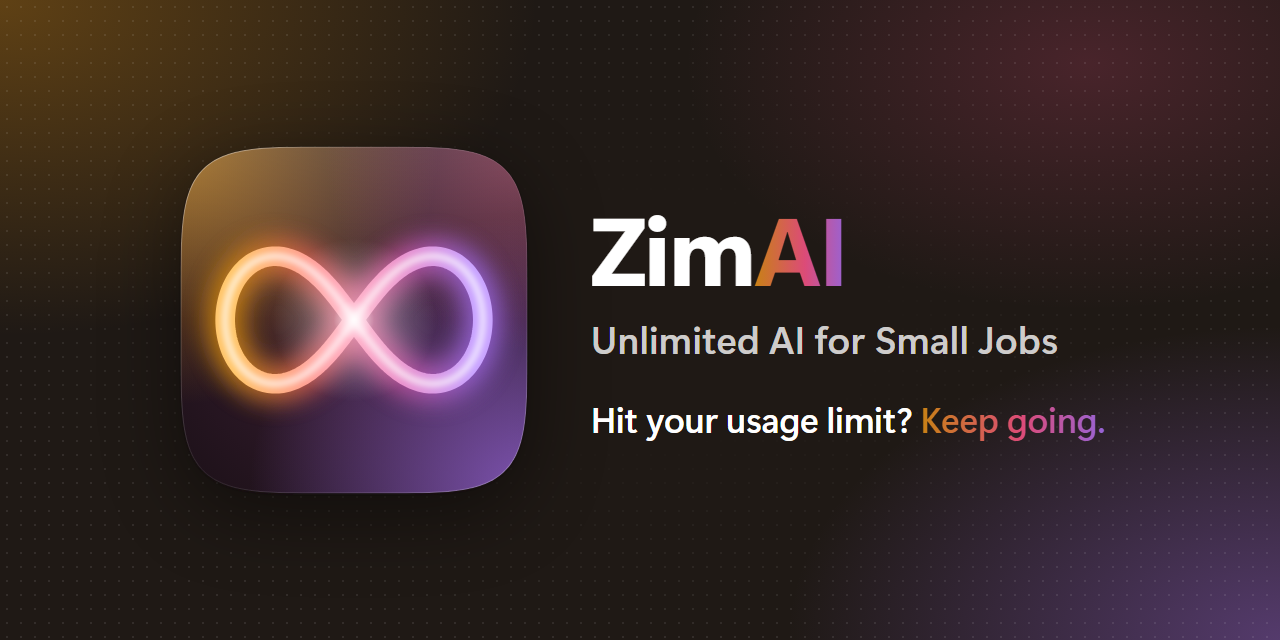
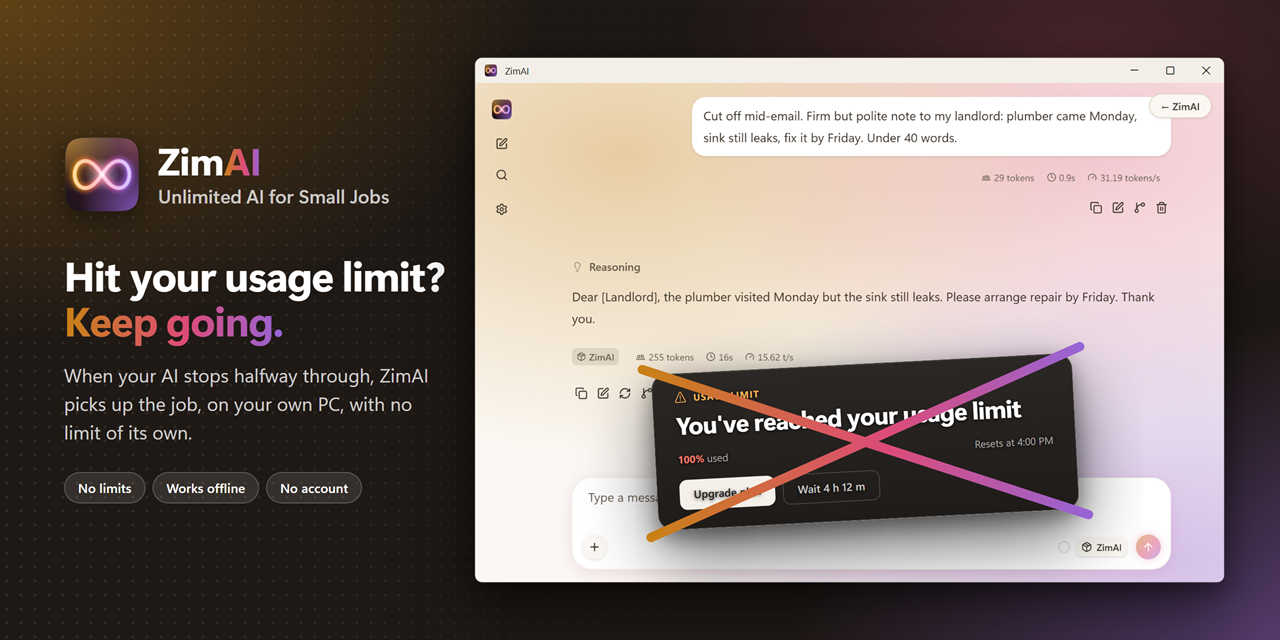
GitHub social preview: the app beside the name, as on the other repos' cards
store-listing/generator/social.html draws the 1280 x 640 card: on the left the
icon, name and slogan, "Hit your usage limit? Keep going." sized to fill the
column, shot 1's line and the facts; on the right the Chat window with another
AI's usage limit crossed out over it. logo.html's #social layout goes.

window.css takes the window and the crossed-out dialog from shots.html, so the
card and the screenshots draw the same one; the screenshots render unchanged.

render.ps1's Shrink renders an image at 2x and scales it down, so the tilted
dialog's edges come out smooth; the social preview uses it.

diff --git a/store-listing/generator/shots.html b/store-listing/generator/shots.html
@@ -8,6 +8,7 @@
 <head>
 <meta charset="utf-8">
 <link rel="stylesheet" href="brand.css">
+<link rel="stylesheet" href="window.css">
 <style>
   html, body { width: 1366px; height: 768px; }
   /* The dots fade out behind the window. */
@@ -26,53 +27,8 @@
   .size { margin-top: 34px; width: 310px; }
   .size b { display: block; width: max-content; font-size: 116px; line-height: 1; font-weight: 700; letter-spacing: -0.03em; }
   .scale { display: flex; justify-content: space-between; margin: 8px 0 0; font: 400 14px "Segoe UI Variable Text", "Segoe UI", sans-serif; color: rgba(255, 255, 255, 0.78); }
-  /* #limit and #chat: the moment it's for, an AI's usage-limit dialog, generic (no product's look or words), over the part of
-     the window where it would stop you, and crossed out in the brand gradient. */
-  .wall { position: absolute; left: 230px; top: 392px; width: 540px; z-index: 3; transform: rotate(-3deg); }
-  .wall-card {
-    position: relative; padding: 22px 28px 24px; border-radius: 20px; color: #fff;
-    background: linear-gradient(180deg, #2b2724, #1e1b19); border: 1px solid rgba(255, 255, 255, 0.13);
-    box-shadow: inset 0 1px 0 rgba(255, 255, 255, 0.08), 0 34px 90px rgba(0, 0, 0, 0.6), 0 10px 26px rgba(0, 0, 0, 0.4);
-    font-family: "Segoe UI Variable Text", "Segoe UI", sans-serif;
-  }
-  .wall-head { display: flex; align-items: center; gap: 8px; font: 700 12px "Segoe UI", sans-serif; letter-spacing: 0.08em;
-               text-transform: uppercase; color: #f2b45a; }
-  .wall-head i { font: normal 15px "Segoe Fluent Icons", "Segoe MDL2 Assets"; }
-  .wall-card b { display: block; margin-top: 10px; font: 700 31px/1.12 "Segoe UI Variable Display", "Segoe UI", sans-serif;
-                 letter-spacing: -0.02em; }
-  .meter { margin-top: 18px; }
-  .meter-text { display: flex; justify-content: space-between; font-size: 13px; color: rgba(255, 255, 255, 0.6); }
-  .meter-text b { display: inline; margin: 0; font: 700 13px "Segoe UI", sans-serif; color: #f07a6a; letter-spacing: 0; }
-  .wall-buttons { display: flex; gap: 10px; margin-top: 18px; }
-  .wall-buttons span { padding: 9px 18px; border-radius: 10px; font: 600 14px "Segoe UI", sans-serif; }
-  .wall-buttons span:first-child { background: #f4efe8; color: #1e1b19; }
-  .wall-buttons span:last-child { border: 1px solid rgba(255, 255, 255, 0.22); color: rgba(255, 255, 255, 0.75); }
-  /* The cross: two strokes, corner past corner, on top of everything, the dialog's words included. */
-  .wall-card::before, .wall-card::after {
-    content: ""; position: absolute; left: -7%; right: -7%; top: 50%; height: 12px; margin-top: -6px; border-radius: 6px;
-    z-index: 2;
-    background: linear-gradient(90deg, var(--gold), var(--rose) 55%, var(--violet));
-  }
-  .wall-card::before { transform: rotate(21deg); }
-  .wall-card::after { transform: rotate(-21deg); }
-  .wall-card > * { position: relative; z-index: 1; text-shadow: 0 1px 4px rgba(0, 0, 0, 0.75); }
-  .facts span {
-    padding: 6px 13px; border-radius: 999px; font: 600 13px "Segoe UI Variable Text", "Segoe UI", sans-serif;
-    background: rgba(255, 255, 255, 0.1); border: 1px solid rgba(255, 255, 255, 0.2);
-  }
-
-  /* The window, at the app's own size (960 x 640, app/Window.cs), scaled to clear the caption. */
-  .window {
-    position: absolute; right: 44px; top: 50%; transform-origin: right center; transform: translateY(-50%) scale(0.95);
-    width: 960px; border-radius: 9px; overflow: hidden; background: var(--bg);
-    box-shadow: 0 0 0 1px rgba(255, 255, 255, 0.14), 0 32px 80px rgba(0, 0, 0, 0.55), 0 10px 24px rgba(0, 0, 0, 0.3);
-  }
-  /* A Windows 11 title bar, with the icon and title ZimAI.exe and its terminal both set. */
-  .titlebar { height: 32px; display: flex; align-items: center; background: #f3efe8; color: #1b1b1b; font: 12px "Segoe UI", sans-serif; }
-  .titlebar img { width: 16px; height: 16px; margin: 0 10px 0 12px; }
-  .titlebar span { flex: 1; }
-  .titlebar i { width: 46px; text-align: center; font: normal 10px "Segoe Fluent Icons", "Segoe MDL2 Assets"; }
-  .client { display: block; width: 960px; height: 640px; border: 0; background: var(--bg); }
+  /* The window (window.css), scaled to clear the caption. */
+  .window { right: 44px; top: 50%; transform-origin: right center; transform: translateY(-50%) scale(0.95); }
   /* demo.svg without its own title bar; a line cut by the top of its screen fades out. */
   svg.client { mask-image: linear-gradient(transparent 0, #000 36px); }
 </style>

diff --git a/store-listing/generator/social.html b/store-listing/generator/social.html
@@ -1,0 +1,59 @@
+<!doctype html>
+<!-- GitHub's social preview, the card shown when the repo's link is shared: render.ps1 loads this page at 1280 x 640
+     into docs/social-preview.png, which is uploaded in the repo's Settings. The name and its line on the left, and on
+     the right Store shot 1's moment: the Chat page (chat-limit.png, by chat.ps1) with another AI's usage limit crossed
+     out over it. GitHub crops a little off the edges in places, so everything stays 56px clear of them. -->
+<html lang="en">
+<head>
+<meta charset="utf-8">
+<link rel="stylesheet" href="brand.css">
+<link rel="stylesheet" href="window.css">
+<style>
+  html, body { width: 1280px; height: 640px; }
+  /* The dots fade out behind the window. */
+  body::before { mask-image: linear-gradient(90deg, #000 0%, rgba(0, 0, 0, 0.6) 30%, transparent 55%); }
+
+  /* A narrow column, so the window can be large. */
+  .caption { position: absolute; left: 64px; top: 0; bottom: 0; width: 380px; display: flex; flex-direction: column; justify-content: center; }
+  /* The icon beside the name and the slogan, as on the screenshots (shots.html). */
+  .app { display: flex; align-items: center; gap: 18px; }
+  .app img { width: 76px; height: 76px; filter: drop-shadow(0 6px 12px rgba(0, 0, 0, 0.45)); }
+  .app b { display: block; font-size: 38px; line-height: 1.05; font-weight: 700; letter-spacing: -0.01em; }
+  .app small { display: block; margin-top: 3px; font-size: 19px; font-weight: 500; color: rgba(255, 255, 255, 0.75); }
+  /* The hook, the card's headline, fills the column's width: the script below sets its font size. */
+  h1 { width: max-content; white-space: nowrap; margin: 40px 0 0; line-height: 1.1; font-weight: 700; letter-spacing: -0.02em; }
+  .caption p { margin: 18px 0 0; font: 400 19px/1.5 "Segoe UI Variable Text", "Segoe UI", sans-serif; color: rgba(255, 255, 255, 0.78); }
+  .facts { display: flex; gap: 7px; margin-top: 26px; }
+
+  /* The window, as large as fits beside the caption and inside the edges. */
+  .window { right: 56px; top: 50%; transform-origin: right center; transform: translateY(-50%) scale(0.78); }
+</style>
+</head>
+<body>
+  <div class="caption">
+    <div class="app"><img src="../../src/ui/icon.svg" alt=""><span><b>Zim<span class="brand">AI</span></b><small>Unlimited AI for Small Jobs</small></span></div>
+    <h1>Hit your usage limit?<br><span class="brand">Keep going.</span></h1>
+    <!-- Store shot 1's line (shots.html). -->
+    <p>When your AI stops halfway through, ZimAI picks up the job, on your own PC, with no limit of its own.</p>
+    <!-- The same facts as on the screenshots (shots.html). -->
+    <div class="facts"><span>No limits</span><span>Works offline</span><span>No account</span></div>
+  </div>
+  <div class="window">
+    <div class="wall"><div class="wall-card">
+      <div class="wall-head"><i>&#xE7BA;</i>Usage limit</div>
+      <b>You've reached your usage limit</b>
+      <div class="meter">
+        <div class="meter-text"><span><b>100%</b> used</span><span>Resets at 4:00 PM</span></div></div>
+      <div class="wall-buttons"><span>Upgrade plan</span><span>Wait 4 h 12 m</span></div>
+    </div></div>
+    <div class="titlebar"><img src="../../src/ui/icon.svg" alt=""><span>ZimAI</span><i>&#xE921;</i><i>&#xE922;</i><i>&#xE8BB;</i></div>
+    <img class="client" src="chat-limit.png" alt="">
+  </div>
+<script>
+  // The headline, measured at 100px and scaled so its wider line spans the caption's width.
+  const h1 = document.querySelector("h1");
+  h1.style.fontSize = "100px";
+  h1.style.fontSize = 100 * document.querySelector(".caption").clientWidth / h1.getBoundingClientRect().width + "px";
+</script>
+</body>
+</html>

diff --git a/store-listing/generator/window.css b/store-listing/generator/window.css
@@ -1,0 +1,51 @@
+/* The app's window, and the usage-limit dialog crossed out over it, shared by shots.html and social.html. Each page
+   places and scales .window itself. */
+
+/* The window, at the app's own size (960 x 640, app/Window.cs). */
+.window {
+  position: absolute; width: 960px; border-radius: 9px; overflow: hidden; background: var(--bg);
+  box-shadow: 0 0 0 1px rgba(255, 255, 255, 0.14), 0 32px 80px rgba(0, 0, 0, 0.55), 0 10px 24px rgba(0, 0, 0, 0.3);
+}
+/* A Windows 11 title bar, with the icon and title ZimAI.exe and its terminal both set. */
+.titlebar { height: 32px; display: flex; align-items: center; background: #f3efe8; color: #1b1b1b; font: 12px "Segoe UI", sans-serif; }
+.titlebar img { width: 16px; height: 16px; margin: 0 10px 0 12px; }
+.titlebar span { flex: 1; }
+.titlebar i { width: 46px; text-align: center; font: normal 10px "Segoe Fluent Icons", "Segoe MDL2 Assets"; }
+.client { display: block; width: 960px; height: 640px; border: 0; background: var(--bg); }
+
+/* The moment it's for, an AI's usage-limit dialog, generic (no product's look or words), over the part of the window
+   where it would stop you, and crossed out in the brand gradient. */
+.wall { position: absolute; left: 230px; top: 392px; width: 540px; z-index: 3; transform: rotate(-3deg); }
+.wall-card {
+  position: relative; padding: 22px 28px 24px; border-radius: 20px; color: #fff;
+  background: linear-gradient(180deg, #2b2724, #1e1b19); border: 1px solid rgba(255, 255, 255, 0.13);
+  box-shadow: inset 0 1px 0 rgba(255, 255, 255, 0.08), 0 34px 90px rgba(0, 0, 0, 0.6), 0 10px 26px rgba(0, 0, 0, 0.4);
+  font-family: "Segoe UI Variable Text", "Segoe UI", sans-serif;
+}
+.wall-head { display: flex; align-items: center; gap: 8px; font: 700 12px "Segoe UI", sans-serif; letter-spacing: 0.08em;
+             text-transform: uppercase; color: #f2b45a; }
+.wall-head i { font: normal 15px "Segoe Fluent Icons", "Segoe MDL2 Assets"; }
+.wall-card b { display: block; margin-top: 10px; font: 700 31px/1.12 "Segoe UI Variable Display", "Segoe UI", sans-serif;
+               letter-spacing: -0.02em; }
+.meter { margin-top: 18px; }
+.meter-text { display: flex; justify-content: space-between; font-size: 13px; color: rgba(255, 255, 255, 0.6); }
+.meter-text b { display: inline; margin: 0; font: 700 13px "Segoe UI", sans-serif; color: #f07a6a; letter-spacing: 0; }
+.wall-buttons { display: flex; gap: 10px; margin-top: 18px; }
+.wall-buttons span { padding: 9px 18px; border-radius: 10px; font: 600 14px "Segoe UI", sans-serif; }
+.wall-buttons span:first-child { background: #f4efe8; color: #1e1b19; }
+.wall-buttons span:last-child { border: 1px solid rgba(255, 255, 255, 0.22); color: rgba(255, 255, 255, 0.75); }
+/* The cross: two strokes, corner past corner, on top of everything, the dialog's words included. */
+.wall-card::before, .wall-card::after {
+  content: ""; position: absolute; left: -7%; right: -7%; top: 50%; height: 12px; margin-top: -6px; border-radius: 6px;
+  z-index: 2;
+  background: linear-gradient(90deg, var(--gold), var(--rose) 55%, var(--violet));
+}
+.wall-card::before { transform: rotate(21deg); }
+.wall-card::after { transform: rotate(-21deg); }
+.wall-card > * { position: relative; z-index: 1; text-shadow: 0 1px 4px rgba(0, 0, 0, 0.75); }
+
+/* The facts, as pills. */
+.facts span {
+  padding: 6px 13px; border-radius: 999px; font: 600 13px "Segoe UI Variable Text", "Segoe UI", sans-serif;
+  background: rgba(255, 255, 255, 0.1); border: 1px solid rgba(255, 255, 255, 0.2);
+}

diff --git a/store-listing/generator/logo.html b/store-listing/generator/logo.html
@@ -1,7 +1,6 @@
 <!doctype html>
-<!-- The Store's box art (1:1) and poster art (9:16), with #tile its app tile icon, and with #social GitHub's social
-     preview (2:1): render.ps1 loads this page at each size. Everything is sized from the shorter side, so one layout
-     serves both arts. -->
+<!-- The Store's box art (1:1) and poster art (9:16), and with #tile its app tile icon: render.ps1 loads this page at
+     each size. Everything is sized from the shorter side, so one layout serves both arts. -->
 <html lang="en">
 <head>
 <meta charset="utf-8">
@@ -16,15 +15,6 @@
   h1 { position: relative; margin: 6vmin 0 0; font-size: 11vmin; line-height: 1; font-weight: 700; letter-spacing: -0.02em; }
   p { position: relative; margin: 3vmin 0 0; font-size: 4.4vmin; font-weight: 500; color: rgba(255, 255, 255, 0.78); }
 
-  .hook { display: none; }
-
-  /* #social: wide, the icon beside the words, and the hook under the slogan. */
-  .social body { flex-direction: row; gap: 9vmin; text-align: left; }
-  .social img { width: 56vmin; height: 56vmin; }
-  .social h1 { margin: 0; font-size: 15vmin; }
-  .social p { font-size: 6vmin; }
-  .social .hook { display: block; margin-top: 5vmin; font-size: 5.4vmin; font-weight: 600; color: #fff; }
-
   /* #tile: the icon alone, filling a transparent square. */
   .tile body { background: transparent; }
   .tile body::before, .tile h1, .tile p { display: none; }
@@ -38,7 +28,6 @@
   <div>
     <h1>Zim<span class="brand">AI</span></h1>
     <p>Unlimited AI for Small Jobs</p>
-    <p class="hook">Hit your usage limit? <span class="brand">Keep going.</span></p>
   </div>
 </body>
 </html>
